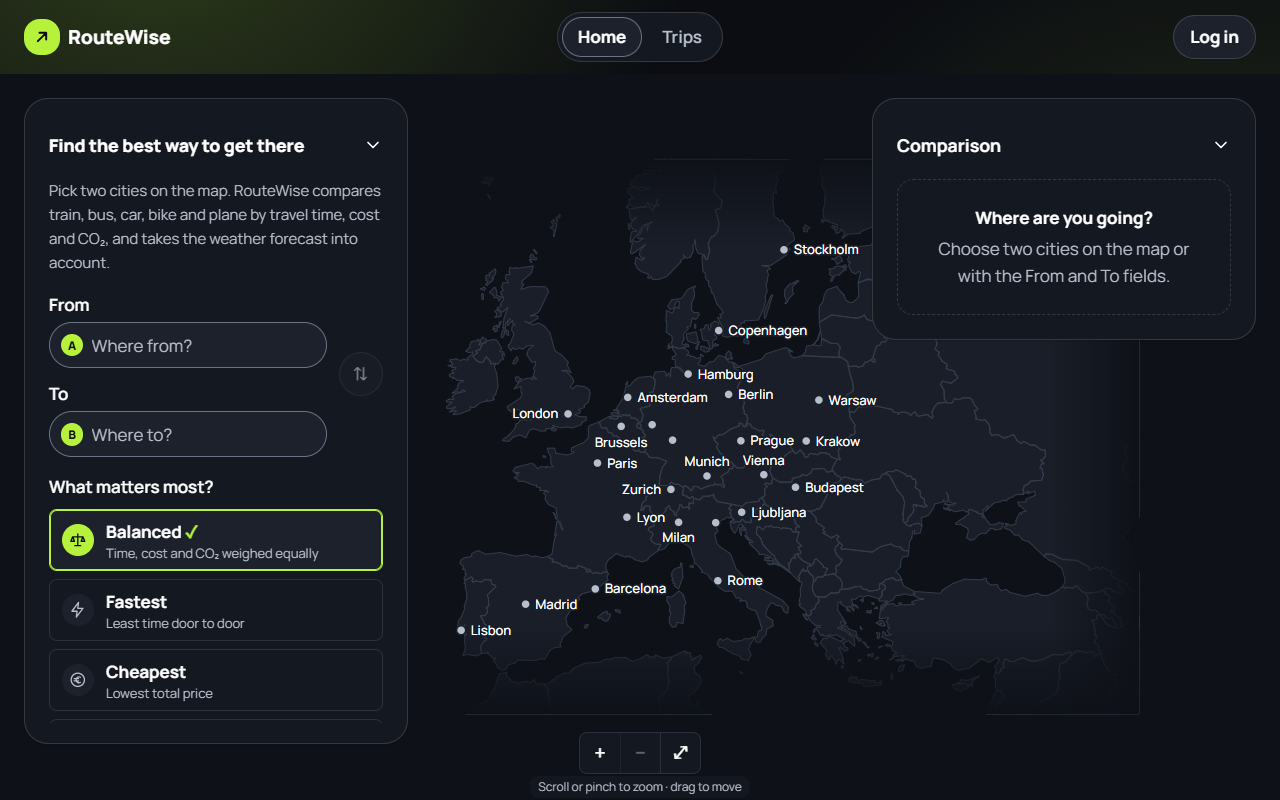
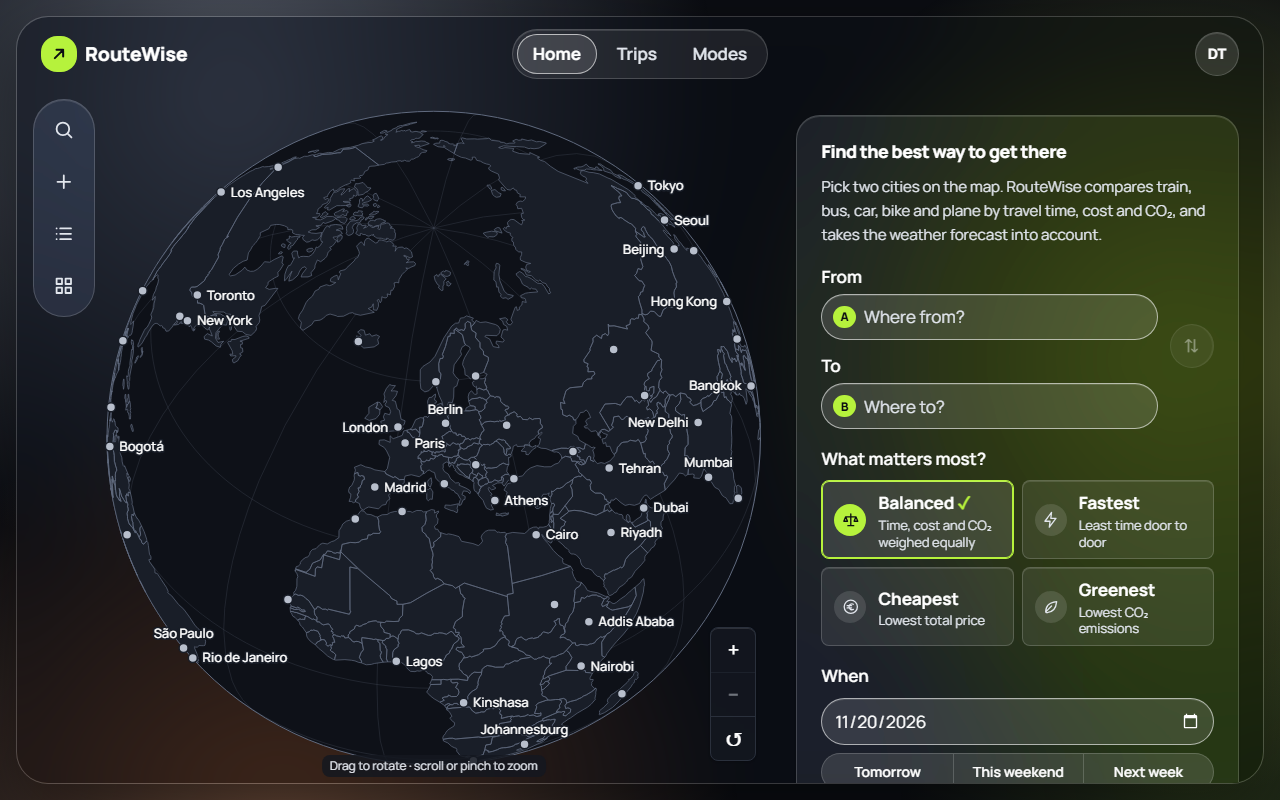
docs: complete ui reference style milestone
Tick feat/ui-reference-style, log the decisions taken while building
the four steps, add the AI workflow entry and commit the final
screenshots: every screen at 1920/1280/375 as after-*, and the previous
after-* set kept as this milestone's before-* set.

diff --git a/docs/PLAN.md b/docs/PLAN.md
@@ -217,7 +217,7 @@ Breaking change in `feat/multi-stop-trips`: trip, comparison and draft payloads 
   - Docs: Swagger annotations on every new/changed endpoint and parameter; this file's API table and domain model; README "Data & assumptions" (149 cities without Moscow, list figures without weather, weather cache TTL)
   - Process: `add-rest-endpoint` and `add-flyway-migration` skills; `test-writer` agent for missing tests; `backend-reviewer` agent before committing, every 🔴 finding fixed; commits via the `commit` skill; never push
   - Done when: tests for the specifications (search on title and on a city name, each filter, combinations, deleted trips excluded), sorting (each key and direction, trips without figures last) and pagination (bounds, last page, out-of-range page = empty items), facet counts (own dimension ignored), `priorityTotals`, stats (no trips, deleted trips, trip without car, next trip today/past), soft delete and restore (inside the window, at the boundary, after → 409, not deleted → 200, another user's trip → 404, deleted trip → 404 on get/update/comparison/advice), `UnavailableGrouper` messages, weather cache hit/miss, failure not cached, retry then fallback with `weatherStatus` `UNAVAILABLE` on timeout, advisor timeout → rules, V9 and V10 migrations (a V8 database with a Moscow trip migrated: trip and city gone, others intact, 149 cities; `CityMigrationTest` count 150 → 149, the only changed expectation of an existing test), ArchUnit rules, `/actuator/health` public; frontend specs for the new `TripApi` calls, the Trips page using API figures/facets/stats, undo toast and grouped messages; `./mvnw verify`, `npm test` and `npm run lint` green; `docs/AI_WORKFLOW.md` entry
-- [ ] `feat/ui-reference-style`: full visual overhaul in the style of the design reference (`docs/photo.jpg`, look and layout ideas only); visual and interaction changes, no API change
+- [x] `feat/ui-reference-style`: full visual overhaul in the style of the design reference (`docs/photo.jpg`, look and layout ideas only); visual and interaction changes, no API change
   - Depends on `feat/backend-depth` (server-side search, facets, stats, pagination, soft delete + restore); no business calculations in the UI
   - Reference: `docs/photo.jpg` is a design reference only: copy its look and layout ideas, never its content, brand, texts or icons; never commit, move or copy it (git-ignored)
   - Screenshots (replaces the "no screenshots" rule): new devDependency `@playwright/test` (approved) with `npm run screenshots`, which logs in with the demo account against the running app and captures Home (empty and with a route), Home Map layout, Trips board, Trips list, trip details, trip form, Modes and the account menu at 1920/1280/375 px. Step reviews go to `docs/screenshots/work/` (git-ignored); final `before-*`/`after-*` sets go to `docs/screenshots/` and are committed. First, the missing current screens are captured: `before-trips-list-1920.png`, `before-account-menu.png`
@@ -383,6 +383,15 @@ Breaking change in `feat/multi-stop-trips`: trip, comparison and draft payloads 
 | 2026-11-13 | "How the modes compare" moves from Home to its own Modes page (`/modes`) | Home stays focused on the map and the comparison; mode parameters get room for a card per mode and a chart |
 | 2026-11-13 | A list row loads its trip's comparison only when it is first expanded | Legs, per-leg figures and weather already come from `GET /api/trips/{id}/comparison`; no new endpoint and no request per row up front |
 | 2026-11-13 | Preferences in the account menu are an optional step needing its own approval | No endpoint exists; the milestone otherwise changes no backend or API contract |
+| 2026-11-13 | Optional step 5 (Preferences) not built | Human decision when closing `feat/ui-reference-style`; stays a candidate for a later milestone |
+| 2026-11-13 | Glass: a static smoky backdrop (no drift) behind one shell at midnight 50 %; chips, cards and rows have no blur of their own | The drifting glow made the full-viewport shell blur repaint every frame; the reference look comes from the backdrop, not from stacked blurs |
+| 2026-11-13 | Muted text raised to `#e2e6ed` | Keeps 4.5:1 on 12 % controls at the brightest backdrop point; hierarchy now comes more from size and weight than colour |
+| 2026-11-13 | Board cards are tinted per priority lane (blue, rust, olive, grey), no longer per mode; the mode stays written on the card | Matches the reference's coloured columns and ties each card to its lane; colour is never the only signal |
+| 2026-11-13 | Globe labels: rank 2 from 2.5x, rank 3 from 5x, a zoom-dependent minimum gap for low-rank dots, more label padding; route cities and the keyboard-focused city are always drawn | Europe at low zoom was crowded with dots and near-touching labels |
+| 2026-11-13 | Account popover built on the existing `Menu` (new `focusOnOpen`) instead of a separate popover component | Escape, outside click, focus return and ARIA were already there; one disclosure component to maintain |
+| 2026-11-13 | The Undo toast takes keyboard focus; toasts get a per-toast duration (Undo 10 s, default 5 s) | The control that opened the delete dialog disappears with the trip, so without moving focus Undo was out of reach within its time limit (WCAG 2.2.1) |
+| 2026-11-13 | List rows: the expand button is the roving tab stop (arrows, Home/End), Enter/Space expand, Escape collapses; the list pages by 20, the board still loads up to 100 | One tab stop for the table with native button semantics; the board needs every trip of a lane at once |
+| 2026-11-13 | Final screenshots: the previous `after-*` set became this milestone's `before-*` set; the older glass-redesign `before-*` files were replaced (still in git history) | One committed before/after pair per screen instead of three generations |
 
 ## Backlog / ideas
 

diff --git a/docs/AI_WORKFLOW.md b/docs/AI_WORKFLOW.md
@@ -570,3 +570,35 @@ corrected manually, and why.
 - Moving business logic to the backend touched every layer at once. Splitting it into domain-sized commits, each with its own tests, and running reviews and test agents in parallel kept each step verifiable.
 - The retry bug only showed up in a test that wires the real Spring proxies. A unit test of the client alone would have passed.
 
+## feat/ui-reference-style
+
+**Delegated to AI**
+- Planning in docs/PLAN.md (main session), with human decisions asked up front: Playwright for screenshots, the screenshot rules and folders, and Preferences as an optional step.
+- Tooling: `npm run screenshots` (Playwright 1.64.1, demo login, all screens at 1920/1280/375), written in the main session.
+- Four review steps, each built by `ui-builder`, reviewed by `ui-reviewer`, fixed by the builder, then stopped for human review with screenshots before the commit:
+  1. Smoky backdrop, glass shell, top bar, icon rail, dark only.
+  2. Board lanes and tinted cards, glass list.
+  3. Modes page, animated route, Home panel, label density.
+  4. Account popover, delete dialog with Undo, interactive list.
+- Final checks and screenshots (main session): `./mvnw verify`, `npm run lint`, `npm test`, `npm run build`, and 24 `after-*` screenshots.
+
+**Corrected manually / human decisions**
+- Human decisions: approved each step's look from the screenshots without changes; skipped step 5 (Preferences); added a backlog item for connecting flights via hubs.
+- Headless Chromium reports a light colour scheme and reduced transparency, so the first captures showed the old light theme and solid glass. The script now forces dark mode and emulates no reduced transparency.
+- The reviewer's 🔴 findings, all fixed before each commit:
+  - Step 1: a removed token was still used, and muted text failed AA on 12 % controls.
+  - Step 2: card menus were clipped because the board became a scroll box.
+  - Step 3: a keyboard-focused city could vanish on zoom out.
+  - Step 4: focus was lost after delete, so Undo was unreachable in time, and stale comparison responses could overwrite fresh ones.
+- From the screenshots (main session):
+  - The confirm dialog was see-through.
+  - A stray space before a comma in the weather line.
+  - An expanded row showed three sets of actions.
+  - Modes cards wrapped as 4 + 1.
+- Deviations from a reviewer: the route animation is not limited to a few loops, because the user asked for an animated route; it pauses while dragging instead. The Home explorer's styles were split into two files to stay under the per-file budget, which the human accepted as a known compromise.
+- A builder left a scratch edit script in the repo, and it was deleted before the step-1 commit.
+
+**Why**
+- Steering the look needs pictures. Code review alone could not judge "smoky" or "clearly visible glass", so each step stopped on screenshots.
+- The most serious defects were accessibility timing and focus problems that only showed when a real browser removed the element that had focus. The probes against the running app found them; jsdom specs alone would not have.
+
